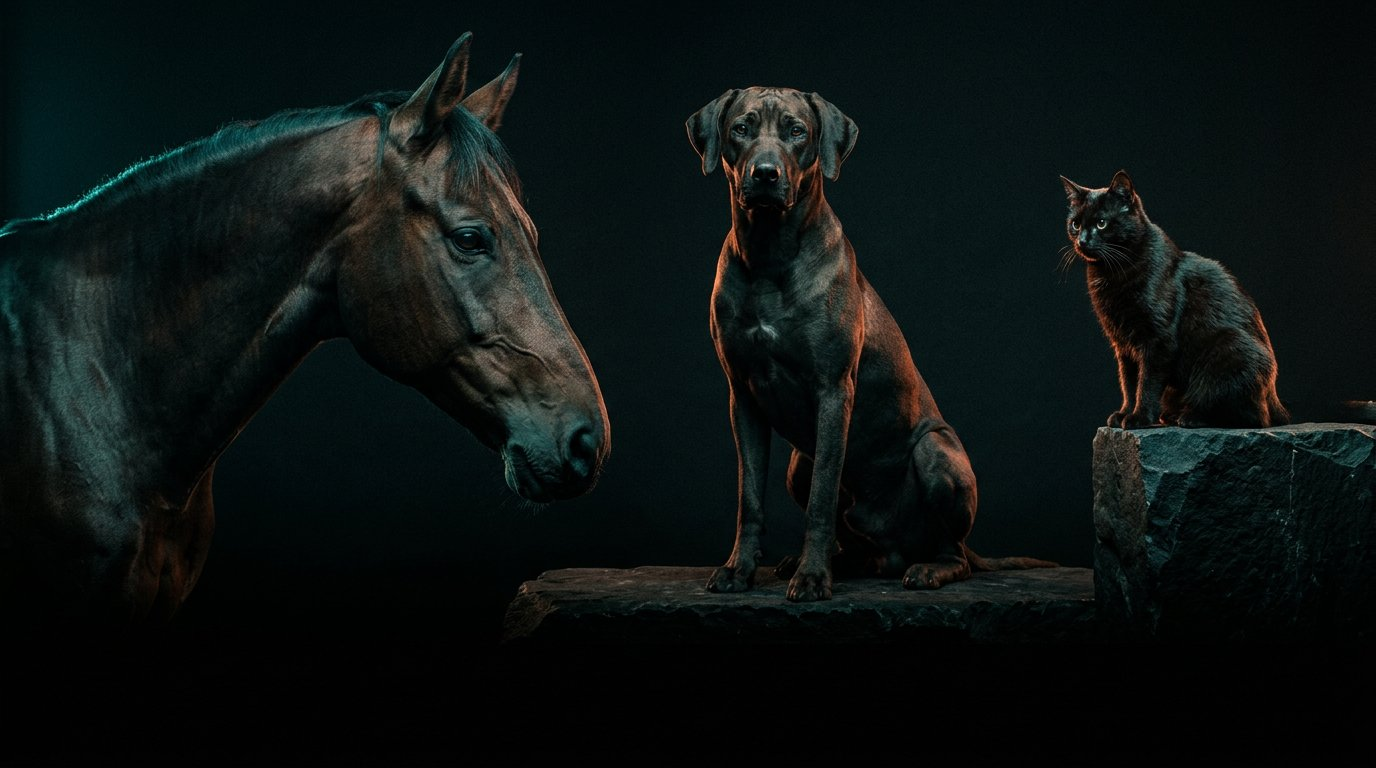
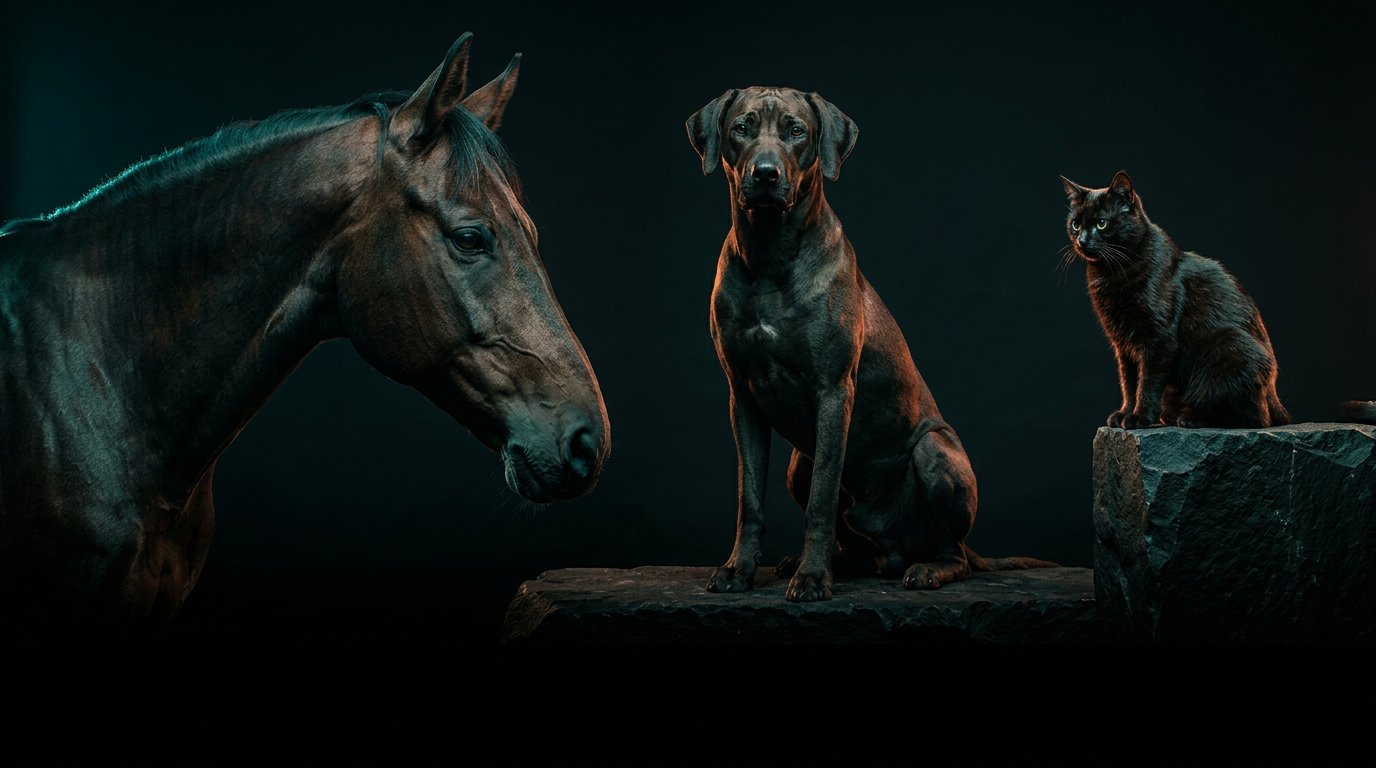
hero grade, graph chapter, connected slide wipes

diff --git a/site.css b/site.css
@@ -14,8 +14,8 @@ button{font:inherit}
 .nav b{letter-spacing:.32em;font-size:.78rem}
 .nav a{min-height:44px;display:inline-flex;align-items:center;font-size:.82rem;margin-inline-start:22px}
 .hero{height:100svh;position:relative;overflow:hidden}
-.hero img{position:absolute;inset:0;width:100%;height:120%;object-fit:cover;object-position:center 38%;will-change:transform}
-.hero .veil{position:absolute;inset:0;background:linear-gradient(180deg,rgba(5,6,7,.12),rgba(5,6,7,.2) 42%,#050607 100%)}
+.hero img{position:absolute;inset:0;width:100%;height:120%;object-fit:cover;object-position:center 38%;will-change:transform;filter:contrast(1.14) saturate(1.08) brightness(.96)}
+.hero .veil{position:absolute;inset:0;background:linear-gradient(180deg,rgba(5,6,7,.08),rgba(5,6,7,.18) 45%,#050607 100%)}
 .hero .c{position:absolute;inset:auto 0 0;padding:0 0 8vh;width:100%}
 .inner{width:var(--w);margin-inline:auto}
 .k{color:var(--gold);letter-spacing:.24em;font-size:.72rem;margin:0 0 14px}
@@ -36,17 +36,17 @@ h2{font-size:clamp(1.7rem,3.6vw,3rem);line-height:1.15;margin:10px 0 16px;max-wi
 .list span{color:var(--dim)}
 .pin{height:500vh;position:relative;direction:ltr;width:100%}
 .pin .sticky{position:sticky;top:0;height:100svh;width:100%;overflow:hidden;direction:ltr;background:#161410}
-.track{position:absolute;inset:0 auto 0 0;display:flex;flex-direction:row;height:100%;width:max-content;will-change:transform}
-.slide{flex:0 0 100vw;width:100vw;height:100%;padding:18vh 6vw 12vh;display:flex;flex-direction:column;justify-content:flex-end;position:relative;overflow:hidden}
+.track{position:absolute;inset:0;width:100%;height:100%}
+.slide{position:absolute;inset:0;width:100%;height:100%;padding:18vh 6vw 12vh;display:flex;flex-direction:column;justify-content:flex-end;overflow:hidden;will-change:clip-path}
 .slide img{position:absolute;inset:0;width:100%;height:100%;object-fit:cover;opacity:1;z-index:0}
 .slide:after{content:"";position:absolute;inset:0;z-index:1;background:linear-gradient(180deg,rgba(5,6,7,.15) 10%,rgba(5,6,7,.45) 50%,rgba(5,6,7,.88) 100%)}
 .slide .s{position:relative;z-index:2;max-width:36rem;direction:rtl;text-align:right}
 .slide .s .lead{color:#e8e0d4}
 .slide h3{font-size:clamp(1.8rem,4vw,3.2rem);margin:8px 0 10px;color:#f4efe6}
-.dots{position:absolute;bottom:28px;left:50%;transform:translateX(-50%);display:flex;gap:8px;z-index:4}
+.dots{position:absolute;bottom:28px;left:50%;transform:translateX(-50%);display:flex;gap:8px;z-index:20}
 .dots i{width:7px;height:7px;border-radius:50%;background:rgba(244,239,230,.28);display:block}
 .dots i.on{background:var(--gold)}
-.hint{position:absolute;bottom:48px;right:6vw;z-index:4;color:var(--gold);font-size:.78rem;letter-spacing:.14em;direction:rtl;transition:opacity .35s}
+.hint{position:absolute;bottom:48px;right:6vw;z-index:20;color:var(--gold);font-size:.78rem;letter-spacing:.14em;direction:rtl;transition:opacity .35s}
 .host{color:var(--gold);letter-spacing:.08em;font-size:.9rem;direction:ltr;text-align:right}
 .chain{font-size:clamp(1.2rem,2.5vw,1.8rem);line-height:1.8;margin-top:20px}
 .chain i{color:var(--gold);font-style:normal}
@@ -74,7 +74,7 @@ h2{font-size:clamp(1.7rem,3.6vw,3rem);line-height:1.15;margin:10px 0 16px;max-wi
   .block{padding:14vh 0}
   .pin{height:auto}
   .pin .sticky{position:relative;height:auto}
-  .track{position:relative;width:100%;flex-direction:column;transform:none!important;height:auto;inset:auto}
-  .slide{flex:none;width:100%;height:auto;min-height:78svh}
+  .track{position:relative;width:100%;height:auto;inset:auto}
+  .slide{position:relative;flex:none;width:100%;height:auto;min-height:78svh;clip-path:none!important;transform:none!important}
   .dots,.hint{display:none}
 }

diff --git a/motion.js b/motion.js
@@ -23,28 +23,23 @@ function pinProgress() {
   return Math.min(1, Math.max(0, (scrollY - start) / travel));
 }
 
-function sizeSlides() {
-  if (!track || !sticky || narrow()) return;
-  const w = sticky.clientWidth;
-  [...track.children].forEach((s) => {
-    s.style.flex = `0 0 ${w}px`;
-    s.style.width = `${w}px`;
-  });
-}
-
 function frame() {
   const y = scrollY;
   if (progress) progress.style.width = `${(y / maxScroll()) * 100}%`;
   if (hero && !reduce) hero.style.transform = `translate3d(0, ${Math.min(y, innerHeight) * 0.18}px, 0)`;
 
   if (pin && track && sticky && !narrow() && !reduce) {
-    sizeSlides();
     const p = pinProgress();
-    const slides = track.children.length || 1;
-    const w = sticky.clientWidth;
-    const maxX = Math.max(0, (slides - 1) * w);
-    track.style.transform = `translate3d(${-p * maxX}px,0,0)`;
-    const slide = Math.min(dots.length - 1, Math.round(p * (slides - 1)));
+    const slides = [...track.querySelectorAll(".slide")];
+    const n = slides.length || 1;
+    const x = p * (n - 1);
+    slides.forEach((s, i) => {
+      const t = Math.min(1, Math.max(0, x - i));
+      s.style.zIndex = String(n - i);
+      s.style.clipPath = `inset(0 ${t * 100}% 0 0)`;
+      s.style.transform = `scale(${1 + t * 0.06})`;
+    });
+    const slide = Math.min(dots.length - 1, Math.round(x));
     dots.forEach((d, i) => d.classList.toggle("on", i === slide));
     if (hint) hint.style.opacity = p < 0.06 ? "1" : "0";
   }

diff --git a/index.html b/index.html
@@ -155,8 +155,8 @@
     </div>
   </div>
 
-  <section class="block">
-    <div class="inner">
+  <section class="chapter">
+    <div class="copy">
       <p class="n">پیوند</p>
       <h2>از کارخانه تا قفسه؛ از اصطبل تا درمان.</h2>
       <p class="chain">برند <i>↓</i> توزیع <i>↓</i> عمده <i>↓</i> پتشاپ</p>
@@ -164,6 +164,7 @@
       <p class="chain">باشگاه و اصطبل <i>↓</i> دامپزشک اسب <i>↓</i> تأمین</p>
       <p class="lead" style="margin-top:22px">حساب مال شماست؛ کسبوکار جدا معرفی میشود. یک نفر میتواند پتشاپ داشته باشد و در کلینیک یا باشگاه نقش دیگری.</p>
     </div>
+    <img src="assets/graph.jpg" width="1920" height="1080" alt="">
   </section>
 
   <section class="block" id="net">
